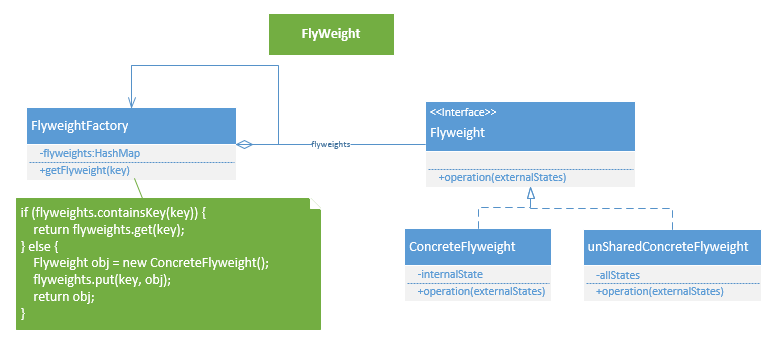
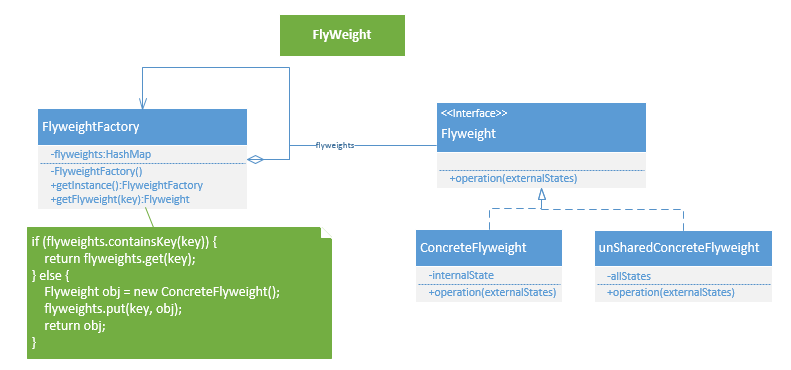
update UML of Flyweight dp.

Changed region(s): [[0.0, 0.0293, 0.9961, 0.9677], [0.4047, 0.6158, 0.4358, 0.9677]]

diff --git a/src/me/ronggenliu/dp/flyweight/ChemcialFactory.java b/src/me/ronggenliu/dp/flyweight/ChemcialFactory.java
@@ -10,7 +10,7 @@ public class ChemcialFactory {
 	public void createChemical(String name, String symbol, double atomicWeight) {
 		if(!chemicals.containsKey(name)) {
 			chemicals.put(name, this.new ChemicalImpl(name, symbol, atomicWeight));
-		}
+		};
 	}
 	
 	public Chemical getChemical(String name) {
